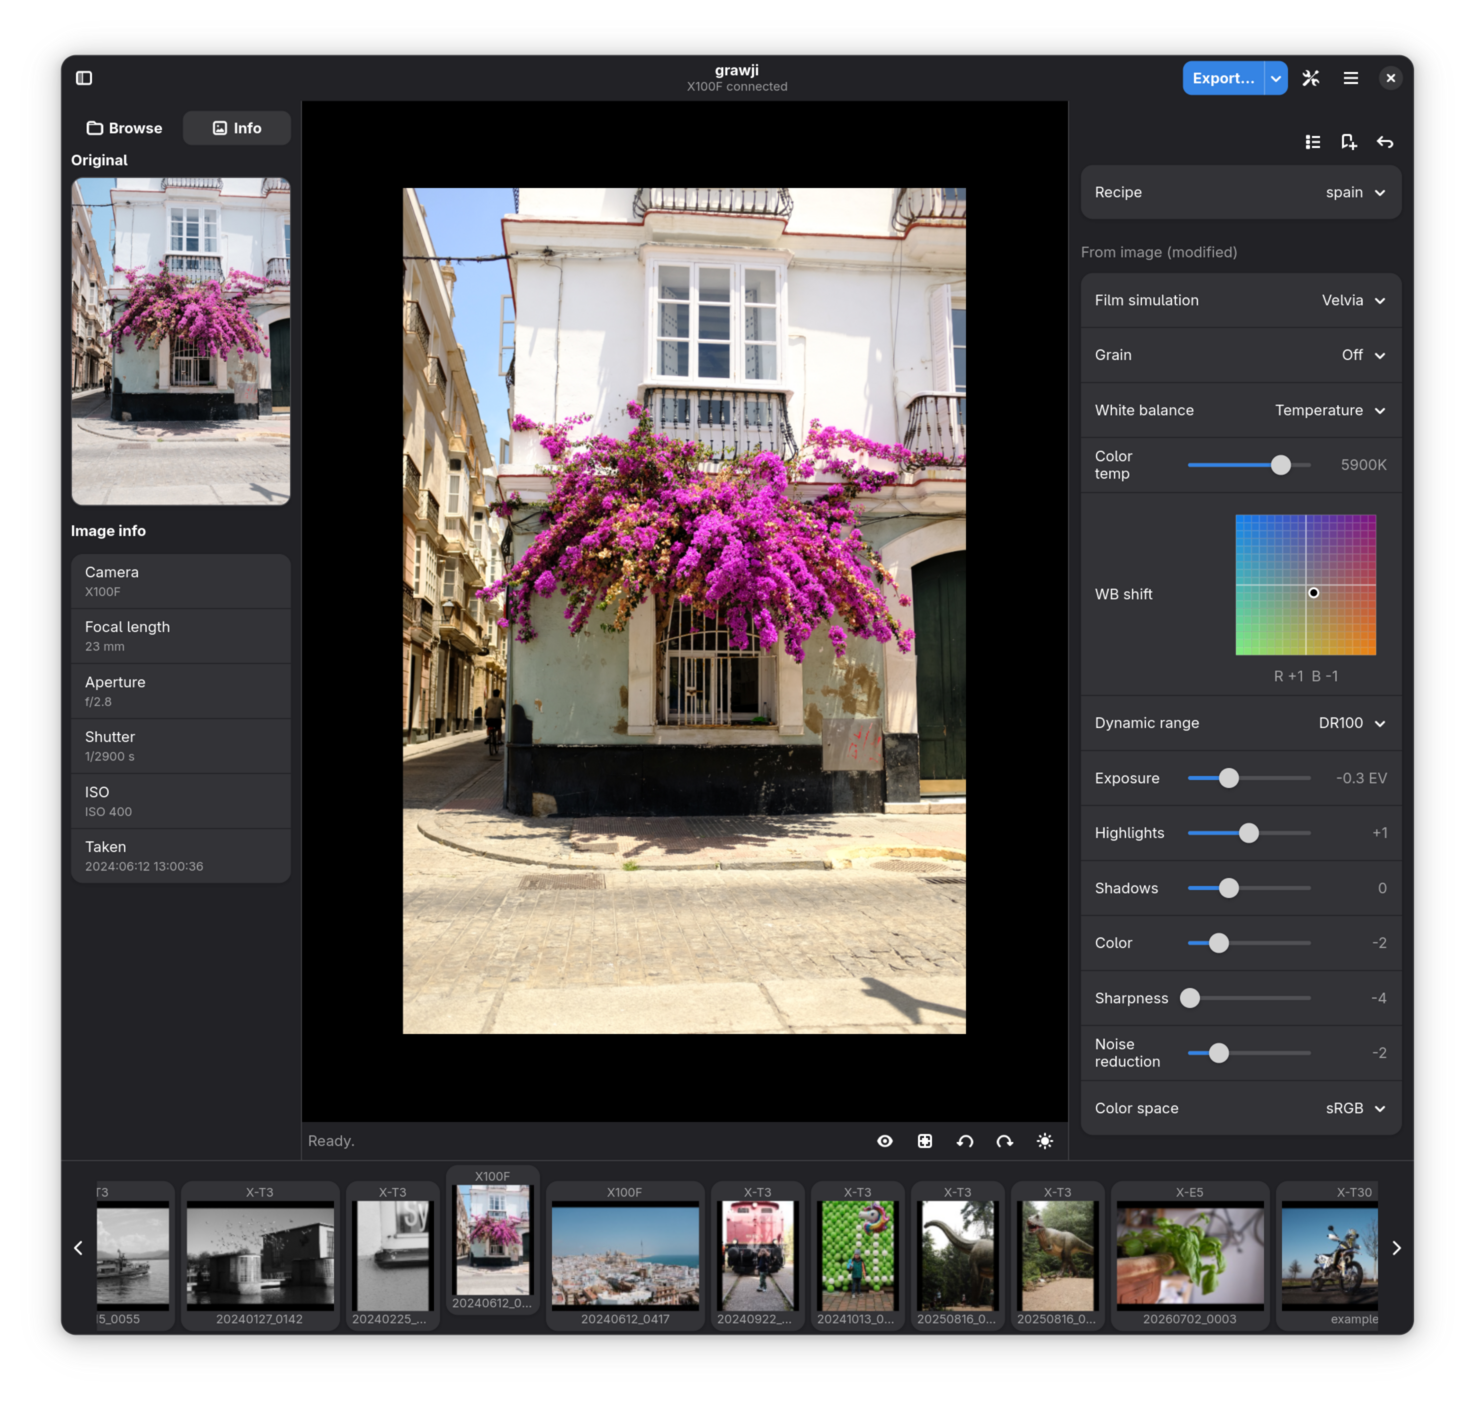
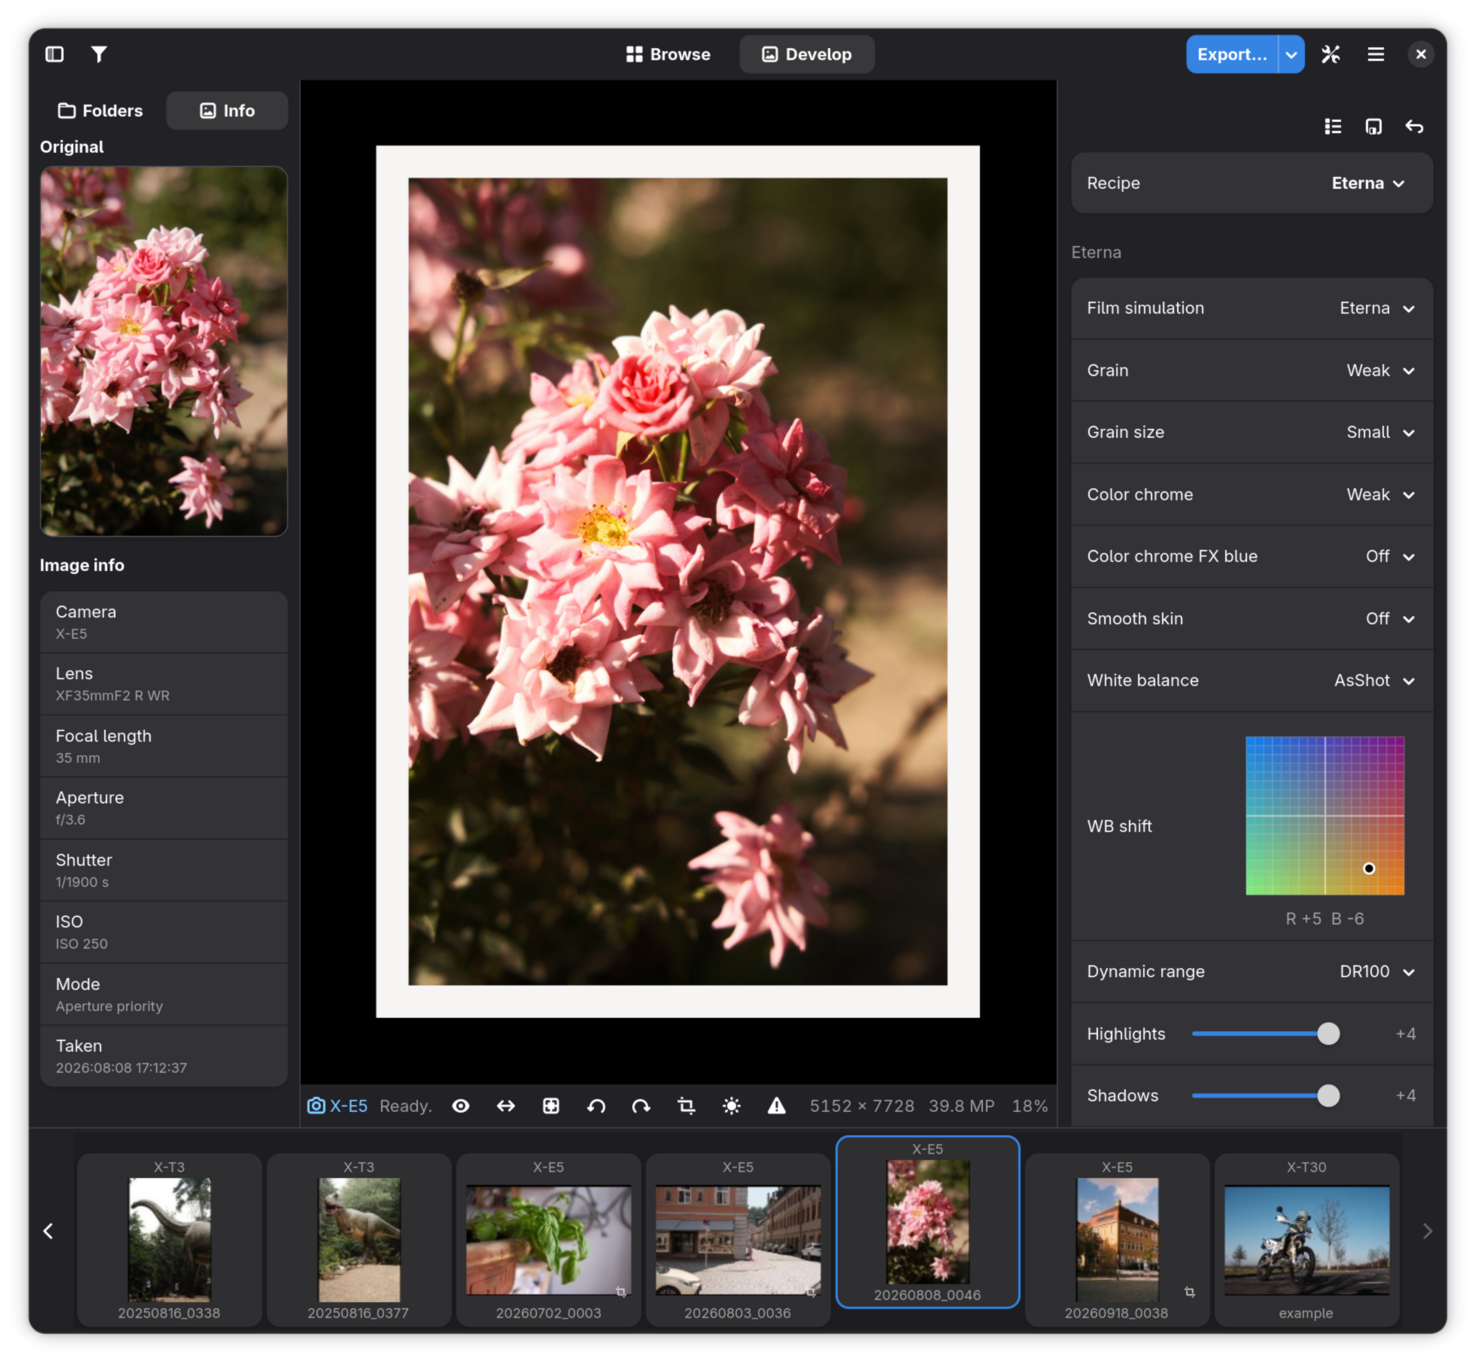
chore(browse): uniformed cards in the strip and the grid

diff --git a/src/grawji/views/filmstrip.py b/src/grawji/views/filmstrip.py
@@ -32,6 +32,9 @@ from grawji.views.tile_thumbs import TileThumbs
 
 # Default continuous-scroll speed while a nav arrow is held, in px/second.
 _GLIDE_AHEAD_BOOST = 1.18
+# Every card gets the same 4:3 slot with the frame centred in
+# it whole. Uniform slots keep the list's size arithmetic exact.
+_SLOT_RATIO = 4 / 3
 _GLIDE_PX_PER_S_DEFAULT = 600
 
 
@@ -162,7 +165,6 @@ class FilmStrip(Gtk.ScrolledWindow):
             self._thumbs,
             self,
             on_meta=self._note_meta,
-            sizes_to_content=True,
         )
         self.set_min_content_height(thumb_height + 52)
 
@@ -173,12 +175,33 @@ class FilmStrip(Gtk.ScrolledWindow):
         self._filter_actions: dict[str, Gio.SimpleAction] = {}
 
     def _watch_scroll(self) -> None:
-        """Wire the wheel to the strip."""
+        """Wire the wheel, and let a hand on the scrollbar win."""
         scroll = Gtk.EventControllerScroll.new(
             Gtk.EventControllerScrollFlags.BOTH_AXES
         )
         scroll.connect("scroll", self._on_scroll)
         self.add_controller(scroll)
+        grab = Gtk.GestureClick()
+        grab.set_propagation_phase(Gtk.PropagationPhase.CAPTURE)
+        grab.connect("pressed", lambda *_a: self._user_takes_over())
+        self.get_hscrollbar().add_controller(grab)
+
+    def _user_takes_over(self) -> None:
+        """Yield to the scrollbar."""
+        self.stop_glide()
+        self._cancel_center()
+        self._reveal_wanted = None
+        mainloop.call(self._neutralize_anchor)
+
+    def _neutralize_anchor(self) -> None:
+        """Replace the list's pending scroll anchor with a satisfied one."""
+        first = (
+            self._shown_position(self.visible_paths[0])
+            if self.visible_paths
+            else None
+        )
+        if first is not None:
+            self._view.scroll_to(first, Gtk.ListScrollFlags.NONE, None)
 
     def do_size_allocate(self, width: int, height: int, baseline: int) -> None:
         """Look at the viewport again once the strip changed size."""
@@ -524,11 +547,12 @@ class FilmStrip(Gtk.ScrolledWindow):
             self._on_loading(True)
 
     def _on_setup(self, _factory: Any, item: Gtk.ListItem) -> None:
-        """Build one reusable card: camera on top, name at the bottom."""
+        """Build one reusable card."""
         picture = Gtk.Picture()
         picture.set_size_request(
-            int(self._thumb_height * 1.5), self._thumb_height
+            int(self._thumb_height * _SLOT_RATIO), self._thumb_height
         )
+        picture.set_content_fit(Gtk.ContentFit.CONTAIN)
 
         def caption(text: str) -> Gtk.Label:
             label = Gtk.Label(label=text, halign=Gtk.Align.FILL)
@@ -590,14 +614,6 @@ class FilmStrip(Gtk.ScrolledWindow):
         entry = entry_item.entry
         parts = self._cards[button]
         self._card_path[button] = entry.path
-        # A known shape sizes the card up front, so it does not jump
-        # from the placeholder when the thumbnail lands.
-        width = (
-            round(self._thumb_height * entry.aspect)
-            if entry.aspect
-            else int(self._thumb_height * 1.5)
-        )
-        parts["picture"].set_size_request(width, self._thumb_height)
         parts["name"].set_text(Path(entry.path).stem)
         parts["camera"].set_text(entry.model)
         parts["crop"].set_visible(entry.has_crop)
@@ -1095,10 +1111,7 @@ class FilmStrip(Gtk.ScrolledWindow):
         now = clock.get_frame_time()  # microseconds
         if self._glide_last is not None:
             elapsed = (now - self._glide_last) / 1e6
-            step = self._glide_speed * elapsed * self._glide_dir
-            if self._glide_dir > 0:
-                step *= _GLIDE_AHEAD_BOOST
-            self._scroll_by(step)
+            self._scroll_by(self._glide_speed * elapsed * self._glide_dir)
         self._glide_last = now
         return GLib.SOURCE_CONTINUE
 
@@ -1123,8 +1136,8 @@ class FilmStrip(Gtk.ScrolledWindow):
         return True
 
     def _card_width(self) -> float:
-        """How far one step moves: one landscape card."""
-        return self._thumb_height * 1.5 + 6  # + list spacing
+        """How far one step moves."""
+        return self._thumb_height * _SLOT_RATIO + 6  # + list spacing
 
     def select_path(self, path: str, *, notify: bool = True) -> bool:
         """Select the thumbnail for path."""

diff --git a/src/grawji/views/folder_grid.py b/src/grawji/views/folder_grid.py
@@ -18,6 +18,8 @@ from grawji.views.tile_thumbs import TileThumbs
 
 # Decoded frames the grid holds on to.
 _KEEP_TILES = 400
+# Grid cells are square.
+_CELL_RATIO = 1.0
 # Room for the caption under each thumbnail.
 _CAPTION_PX = 22
 # Breathing room between tiles.
@@ -68,6 +70,7 @@ class FolderGrid(Gtk.ScrolledWindow):
         factory.connect("bind", self._on_bind)
         factory.connect("unbind", self._on_unbind)
         self._view = Gtk.GridView(model=self._selection, factory=factory)
+        self._view.add_css_class("folder-grid")
         self._view.set_min_columns(1)
         self._view.set_max_columns(1)
         self._fit_pending = 0
@@ -79,6 +82,10 @@ class FolderGrid(Gtk.ScrolledWindow):
         self._cells: dict[Gtk.Widget, Gtk.AspectFrame] = {}
         self._view.connect("activate", self._on_activated)
         self.set_child(self._view)
+        grab = Gtk.GestureClick()
+        grab.set_propagation_phase(Gtk.PropagationPhase.CAPTURE)
+        grab.connect("pressed", lambda *_a: self._user_takes_over())
+        self.get_vscrollbar().add_controller(grab)
         self.set_policy(Gtk.PolicyType.AUTOMATIC, Gtk.PolicyType.AUTOMATIC)
         self.set_vexpand(True)
 
@@ -103,7 +110,7 @@ class FolderGrid(Gtk.ScrolledWindow):
             return
         self._tile = height
         for cell in self._cells.values():
-            cell.set_size_request(int(height * 1.5), height)
+            cell.set_size_request(int(height * _CELL_RATIO), height)
         self._fit_columns()
         if self._resize_pending:
             GLib.source_remove(self._resize_pending)
@@ -123,7 +130,7 @@ class FolderGrid(Gtk.ScrolledWindow):
         width = self.get_width() or self.get_hadjustment().get_page_size()
         if width <= 0:
             return
-        columns = max(1, int(width // (self._tile * 1.5 + _GAP_PX)))
+        columns = max(1, int(width // (self._tile * _CELL_RATIO + _GAP_PX)))
         if columns != self._view.get_max_columns():
             self._view.set_max_columns(columns)
 
@@ -199,6 +206,12 @@ class FolderGrid(Gtk.ScrolledWindow):
         columns = max(1, self._view.get_max_columns())
         return -(-self._shown.get_n_items() // columns)
 
+    def _user_takes_over(self) -> None:
+        """Yield to the scrollbar."""
+        self._center_path = None
+        self._center_frames = 0
+        self._reveal_wanted = None
+
     def _catch_up_reveal(self) -> bool:
         """Show a frame that was selected while the page was hidden."""
         wanted = self._reveal_wanted
@@ -258,6 +271,8 @@ class FolderGrid(Gtk.ScrolledWindow):
     def _on_setup(self, _factory: Any, item: Gtk.ListItem) -> None:
         """Build one reusable tile."""
         box = Gtk.Box(orientation=Gtk.Orientation.VERTICAL, spacing=4)
+        box.add_css_class("card")
+        box.add_css_class("grid-tile")
         box.set_margin_start(_GAP_PX // 2)
         box.set_margin_end(_GAP_PX // 2)
         box.set_margin_top(_GAP_PX // 2)
@@ -265,11 +280,12 @@ class FolderGrid(Gtk.ScrolledWindow):
         picture = Gtk.Picture()
         picture.set_can_shrink(True)
         picture.set_content_fit(Gtk.ContentFit.CONTAIN)
-        cell = Gtk.AspectFrame(ratio=1.5, obey_child=False)
-        cell.set_size_request(int(self._tile * 1.5), self._tile)
+        cell = Gtk.AspectFrame(ratio=_CELL_RATIO, obey_child=False)
+        cell.set_size_request(int(self._tile * _CELL_RATIO), self._tile)
         cell.set_child(picture)
         caption = Gtk.Label(ellipsize=3, max_width_chars=1)
         caption.add_css_class("caption")
+        caption.add_css_class("dim-label")
         caption.set_size_request(-1, _CAPTION_PX)
         box.append(cell)
         box.append(caption)

diff --git a/src/grawji/views/window.py b/src/grawji/views/window.py
@@ -102,14 +102,12 @@ _CANVAS_CSS = """
     margin-top: 0;
     margin-bottom: 16px;
 }
-/* The current frame gets an accent ring, a batch-marked one a tint. */
 .thumb.thumb-selected {
     box-shadow: inset 0 0 0 2px @accent_bg_color;
 }
 .thumb.thumb-marked {
     background-color: alpha(@accent_bg_color, 0.30);
 }
-/* Camera presence, beside the other readouts under the image. */
 .camera-state image { opacity: 0.4; }
 .camera-state.camera-connected image {
     color: @accent_color;
@@ -119,18 +117,31 @@ _CANVAS_CSS = """
     color: @accent_color;
     opacity: 1;
 }
-/* Soften the folder tree: slightly dimmed text and a gentler selection. */
+.grid-tile { padding: 6px 6px 3px; }
+.dim-cards .grid-tile {
+    background-color: alpha(#ffffff, 0.05);
+    box-shadow: none;
+}
+gridview.folder-grid > child,
+gridview.folder-grid > child:hover,
+gridview.folder-grid > child:selected {
+    background: none;
+}
+gridview.folder-grid > child:hover .grid-tile {
+    background-color: alpha(currentColor, 0.1);
+}
+gridview.folder-grid > child:selected .grid-tile {
+    background-color: alpha(@accent_bg_color, 0.25);
+    box-shadow: inset 0 0 0 2px @accent_bg_color;
+}
 .folder-tree { color: alpha(currentColor, 0.85); font-weight: normal; }
 .folder-tree image { opacity: 0.7; }
 .folder-tree row:selected { background-color: alpha(currentColor, 0.12); }
-/* Filmstrip nav buttons: round only the edge facing the window border. */
 .filmstrip-nav-start { border-radius: 0 0 0 8px; }
 .filmstrip-nav-end { border-radius: 0 0 8px 0; }
-/* Subtle tint on recipe rows that differ from the applied recipe. */
 row.recipe-modified {
     background-color: alpha(@accent_bg_color, 0.08);
 }
-/* Zero tick under the straighten slider. */
 .angle-zero-mark {
     background-color: alpha(currentColor, 0.55);
     border-radius: 1px;
@@ -517,12 +528,24 @@ class MainWindow(Adw.ApplicationWindow):
         self.grid_slot.append(self._grid)
         self.grid_size.set_value(self._settings.grid_tile_px)
         self.grid_size.connect("value-changed", self._on_tile_size)
+        style = Adw.StyleManager.get_default()
+        style.connect("notify::dark", self._on_dark_changed)
+        self._on_dark_changed(style)
         self.view_stack.connect(
             "notify::visible-child-name", self._on_view_changed
         )
         # Browse is the first tab, but grawji opens on one image.
         self.view_stack.set_visible_child_name("preview")
         self._style_grid_canvas(self._settings.canvas_background)
+
+    def _on_dark_changed(
+        self, style: Adw.StyleManager, *_args: object
+    ) -> None:
+        """Soften the grid cards when the theme goes dark."""
+        if style.get_dark():
+            self._grid.add_css_class("dim-cards")
+        else:
+            self._grid.remove_css_class("dim-cards")
 
     def _on_tile_size(self, scale: Gtk.Scale) -> None:
         """Resize the grid's tiles and remember the choice."""

diff --git a/tests/test_filmstrip_filter.py b/tests/test_filmstrip_filter.py
@@ -166,8 +166,6 @@ def test_focal_sliders_push_each_other(strip: Any) -> None:
 
 def test_sliders_absent_without_two_focals(strip: Any) -> None:
     """A single distinct focal length offers no range to filter."""
-    from grawji.imaging.thumbnails import ThumbMeta
-
     strip._entries = {
         path: catalog.with_meta(strip._entries[path], "X-E5", PRIME, "35 mm")
         for path in strip.paths
@@ -410,3 +408,22 @@ def test_one_arrow_press_moves_the_strip_by_one_card(
     assert moved >= width / 2, f"a step moved {moved} of a {width} card"
     strip.scroll_step(1)
     assert adjustment.get_value() - moved >= width / 2
+
+
+def test_a_hand_on_the_scrollbar_outranks_pending_moves(
+    gtk: Any, tmp_path: Path
+) -> None:
+    """A reveal still in flight must not fight the user's drag."""
+    from grawji.views.filmstrip import FilmStrip
+
+    (tmp_path / "a.RAF").write_bytes(b"not a real raf")
+    strip = FilmStrip(on_select=lambda _p: None)
+    strip.scan(str(tmp_path))
+    strip._reveal_wanted = ("wanted", True)
+    strip._center_path = "wanted"
+    strip._center_frames = 30
+    strip._glide_dir = 1
+    strip._user_takes_over()
+    assert strip._reveal_wanted is None
+    assert strip._center_path is None
+    assert strip._center_frames == 0
